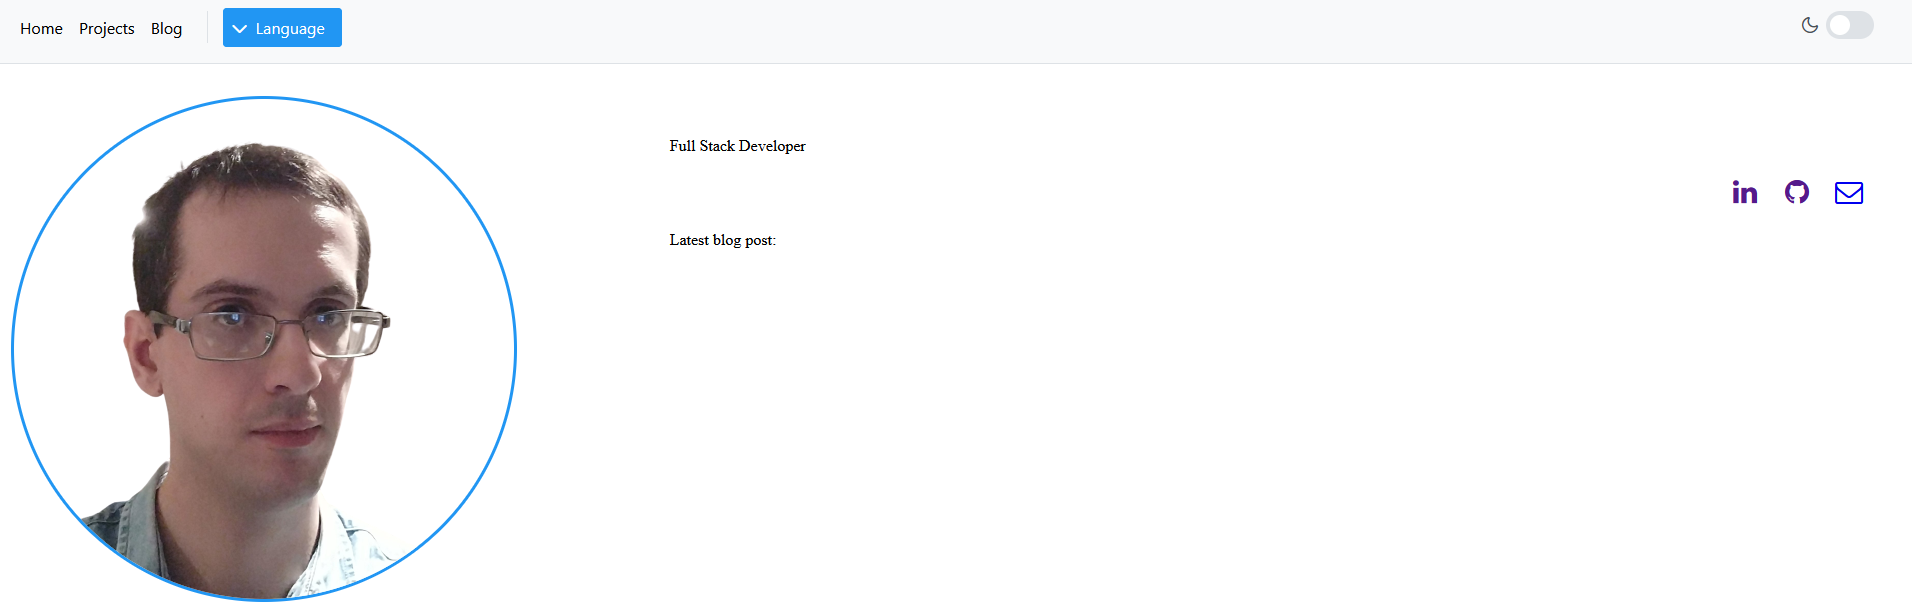
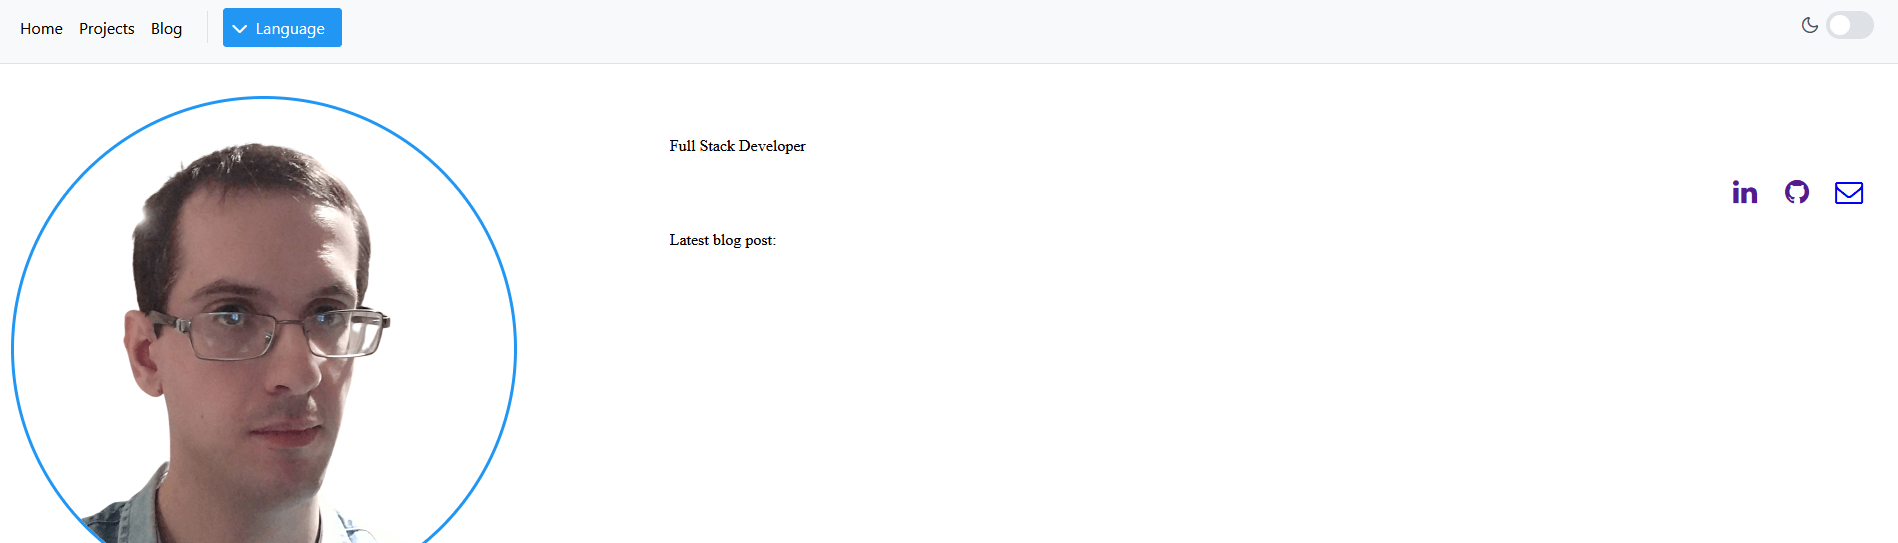
new projects and description

diff --git a/src/main/webapp/resources/css/template.css b/src/main/webapp/resources/css/template.css
@@ -10,14 +10,15 @@ body {
     color: #6c757d
 }
 
-
-.container-dark{
-    background-color: #0d0f12;
+.full-height{
     height: 100vh;
 }
 
+.container-dark{
+    background-color: #0d0f12;
+}
+
 .container{
-    height: 100vh;
 }
 
 .footer{
